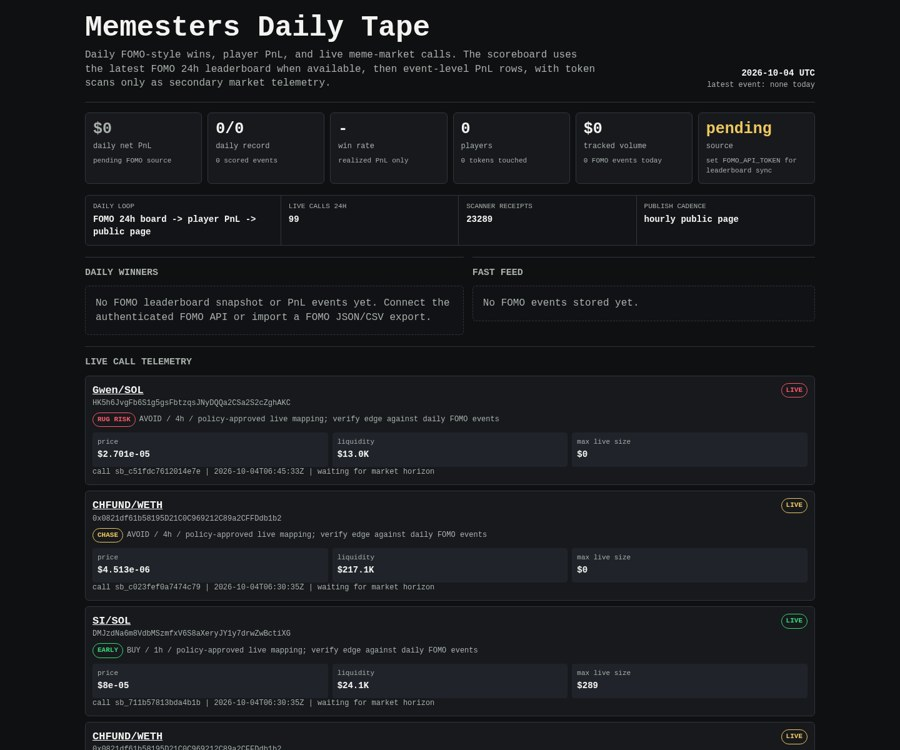
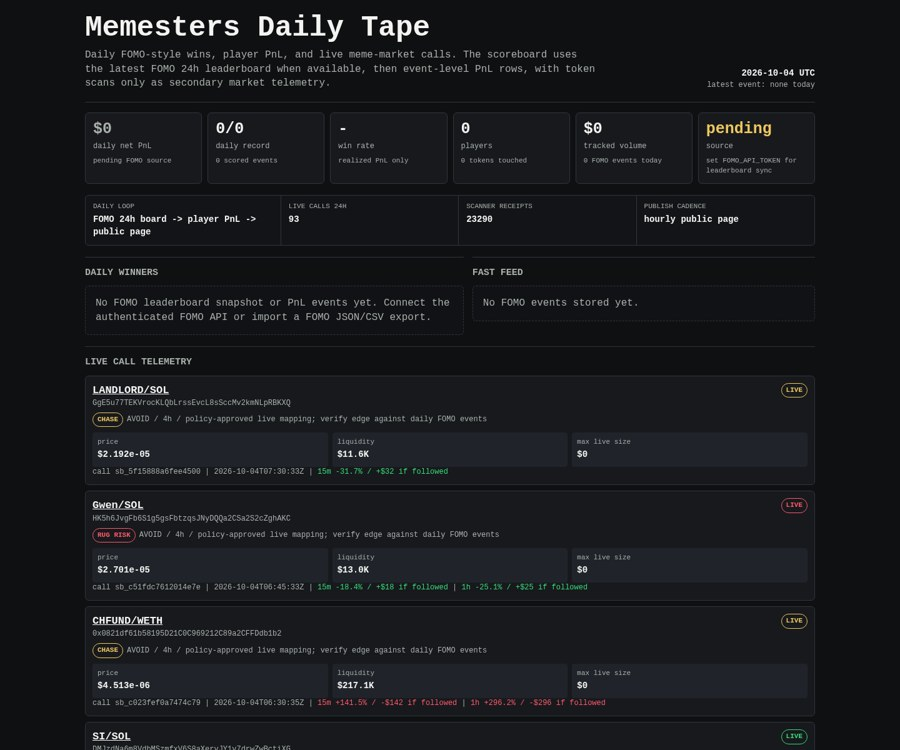
Update Memesters scoreboard

diff --git a/memesters/index.html b/memesters/index.html
@@ -149,8 +149,8 @@
 
     <div class="rail" aria-label="live operating loop">
       <div><span>daily loop</span><b>FOMO 24h board -> player PnL -> public page</b></div>
-      <div><span>live calls 24h</span><b>99</b></div>
-      <div><span>scanner receipts</span><b>23289</b></div>
+      <div><span>live calls 24h</span><b>93</b></div>
+      <div><span>scanner receipts</span><b>23290</b></div>
       <div><span>publish cadence</span><b>hourly public page</b></div>
     </div>
 
@@ -171,6 +171,27 @@
     <article class="receipt">
       <div class="receipt-head">
         <div>
+          <div class="pair"><a href="https://dexscreener.com/solana/88vb7iwxwfd3wk899wuipmqrvz1nhenrhmw7nzgt3bks">LANDLORD/SOL</a></div>
+          <div class="addr">GgE5u77TEKVrocKLQbLrssEvcL8sSccMv2kmNLpRBKXQ</div>
+          <div class="addr policy-line">
+            <span class="badge chase">CHASE</span>
+            <span>AVOID / 4h / policy-approved live mapping; verify edge against daily FOMO events</span>
+          </div>
+        </div>
+        <span class="badge chase">LIVE</span>
+      </div>
+      <div class="receipt-grid">
+        <div class="kv"><span>price</span><b>$2.192e-05</b></div>
+        <div class="kv"><span>liquidity</span><b>$11.6K</b></div>
+        <div class="kv"><span>max live size</span><b>$0</b></div>
+      </div>
+      <div class="outcomes">call sb_5f15888a6fee4500 | 2026-10-04T07:30:33Z | <span class="positive">15m -31.7% / +$32 if followed</span></div>
+    </article>
+    
+
+    <article class="receipt">
+      <div class="receipt-head">
+        <div>
           <div class="pair"><a href="https://dexscreener.com/solana/aiwylwlxsov3gn5pff4fopfzkcywbp6fddjk4x84kk9r">Gwen/SOL</a></div>
           <div class="addr">HK5h6JvgFb6S1g5gsFbtzqsJNyDQQa2CSa2S2cZghAKC</div>
           <div class="addr policy-line">
@@ -185,7 +206,7 @@
         <div class="kv"><span>liquidity</span><b>$13.0K</b></div>
         <div class="kv"><span>max live size</span><b>$0</b></div>
       </div>
-      <div class="outcomes">call sb_c51fdc7612014e7e | 2026-10-04T06:45:33Z | waiting for market horizon</div>
+      <div class="outcomes">call sb_c51fdc7612014e7e | 2026-10-04T06:45:33Z | <span class="positive">15m -18.4% / +$18 if followed</span> | <span class="positive">1h -25.1% / +$25 if followed</span></div>
     </article>
     
 
@@ -206,7 +227,7 @@
         <div class="kv"><span>liquidity</span><b>$217.1K</b></div>
         <div class="kv"><span>max live size</span><b>$0</b></div>
       </div>
-      <div class="outcomes">call sb_c023fef0a7474c79 | 2026-10-04T06:30:35Z | waiting for market horizon</div>
+      <div class="outcomes">call sb_c023fef0a7474c79 | 2026-10-04T06:30:35Z | <span class="negative">15m +141.5% / -$142 if followed</span> | <span class="negative">1h +296.2% / -$296 if followed</span></div>
     </article>
     
 
@@ -227,7 +248,7 @@
         <div class="kv"><span>liquidity</span><b>$24.1K</b></div>
         <div class="kv"><span>max live size</span><b>$289</b></div>
       </div>
-      <div class="outcomes">call sb_711b57813bda4b1b | 2026-10-04T06:30:35Z | waiting for market horizon</div>
+      <div class="outcomes">call sb_711b57813bda4b1b | 2026-10-04T06:30:35Z | <span class="positive">15m +37.8% / +$38 if followed</span> | <span class="negative">1h -28.6% / -$29 if followed</span></div>
     </article>
     
 
@@ -248,7 +269,7 @@
         <div class="kv"><span>liquidity</span><b>$144.6K</b></div>
         <div class="kv"><span>max live size</span><b>$0</b></div>
       </div>
-      <div class="outcomes">call sb_41927fdc8b6b4948 | 2026-10-04T06:15:33Z | <span class="negative">15m +172.4% / -$172 if followed</span></div>
+      <div class="outcomes">call sb_41927fdc8b6b4948 | 2026-10-04T06:15:33Z | <span class="negative">15m +172.4% / -$172 if followed</span> | <span class="negative">1h +463.7% / -$464 if followed</span></div>
     </article>
     
 
@@ -269,7 +290,7 @@
         <div class="kv"><span>liquidity</span><b>$21.4K</b></div>
         <div class="kv"><span>max live size</span><b>$257</b></div>
       </div>
-      <div class="outcomes">call sb_7f7f1b8b0a3c49d7 | 2026-10-04T06:15:33Z | <span class="positive">15m +12.3% / +$12 if followed</span></div>
+      <div class="outcomes">call sb_7f7f1b8b0a3c49d7 | 2026-10-04T06:15:33Z | <span class="positive">15m +12.3% / +$12 if followed</span> | <span class="positive">1h +4.5% / +$4 if followed</span></div>
     </article>
     
 
@@ -290,7 +311,7 @@
         <div class="kv"><span>liquidity</span><b>$6.1K</b></div>
         <div class="kv"><span>max live size</span><b>$0</b></div>
       </div>
-      <div class="outcomes">call sb_6c5f2ffa320a400c | 2026-10-04T05:45:32Z | <span class="negative">15m +37.4% / -$37 if followed</span></div>
+      <div class="outcomes">call sb_6c5f2ffa320a400c | 2026-10-04T05:45:32Z | <span class="negative">15m +37.4% / -$37 if followed</span> | <span class="positive">1h -7.0% / +$7 if followed</span></div>
     </article>
     
 
@@ -354,27 +375,6 @@
         <div class="kv"><span>max live size</span><b>$0</b></div>
       </div>
       <div class="outcomes">call sb_fcf4425ff33248b9 | 2026-10-04T04:00:35Z | <span class="positive">15m -50.3% / +$50 if followed</span> | <span class="negative">1h +5.2% / -$5 if followed</span></div>
-    </article>
-    
-
-    <article class="receipt">
-      <div class="receipt-head">
-        <div>
-          <div class="pair"><a href="https://dexscreener.com/solana/2dmw3rhbesyxbqypbcfvyacysew8azh4vhvu1pwgllov">SLEUTHY/SOL</a></div>
-          <div class="addr">3XBKc5N6ecPdxSBxPRSobzZ4wWiEqtVxVMjYqPeNTrDb</div>
-          <div class="addr policy-line">
-            <span class="badge chase">CHASE</span>
-            <span>AVOID / 4h / policy-approved live mapping; verify edge against daily FOMO events</span>
-          </div>
-        </div>
-        <span class="badge chase">LIVE</span>
-      </div>
-      <div class="receipt-grid">
-        <div class="kv"><span>price</span><b>$9.935e-05</b></div>
-        <div class="kv"><span>liquidity</span><b>$27.9K</b></div>
-        <div class="kv"><span>max live size</span><b>$0</b></div>
-      </div>
-      <div class="outcomes">call sb_88da5d1df56347fd | 2026-10-04T03:00:37Z | <span class="positive">15m -5.7% / +$6 if followed</span> | <span class="negative">1h +39.7% / -$40 if followed</span></div>
     </article>
     
     </section>
